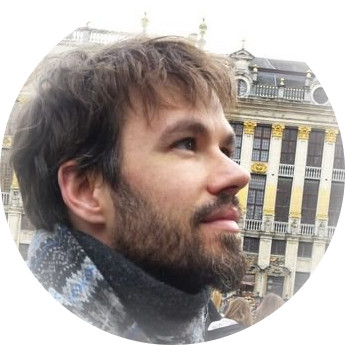
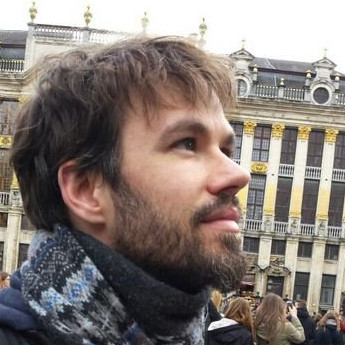
use border-radius to round profile image

diff --git a/components/Bio.js b/components/Bio.js
@@ -23,6 +23,7 @@ class Bio extends React.Component {
             marginBottom: 0,
             width: rhythm(2),
             height: rhythm(2),
+            borderRadius: '100%',
           }}
         />
         Crafted by <strong>{config.authorName}</strong> who lives and works in Berlin building useful things.
